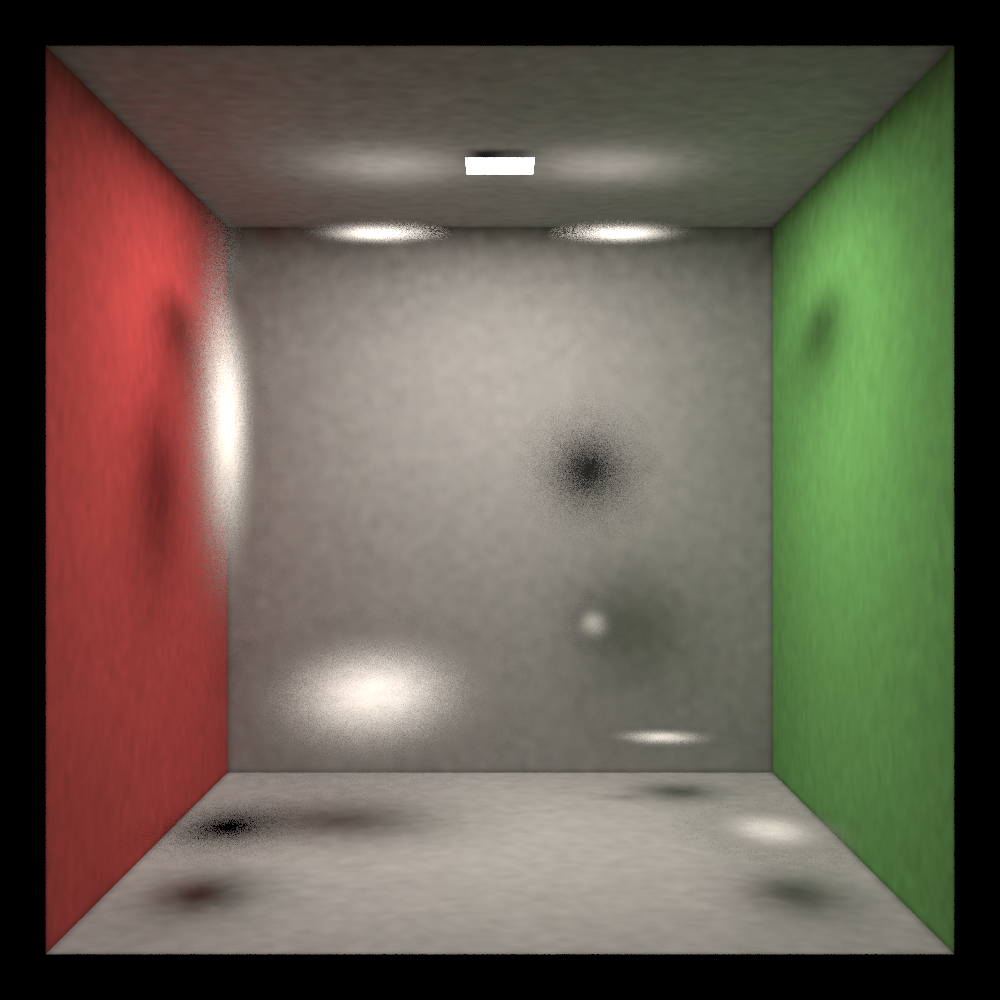
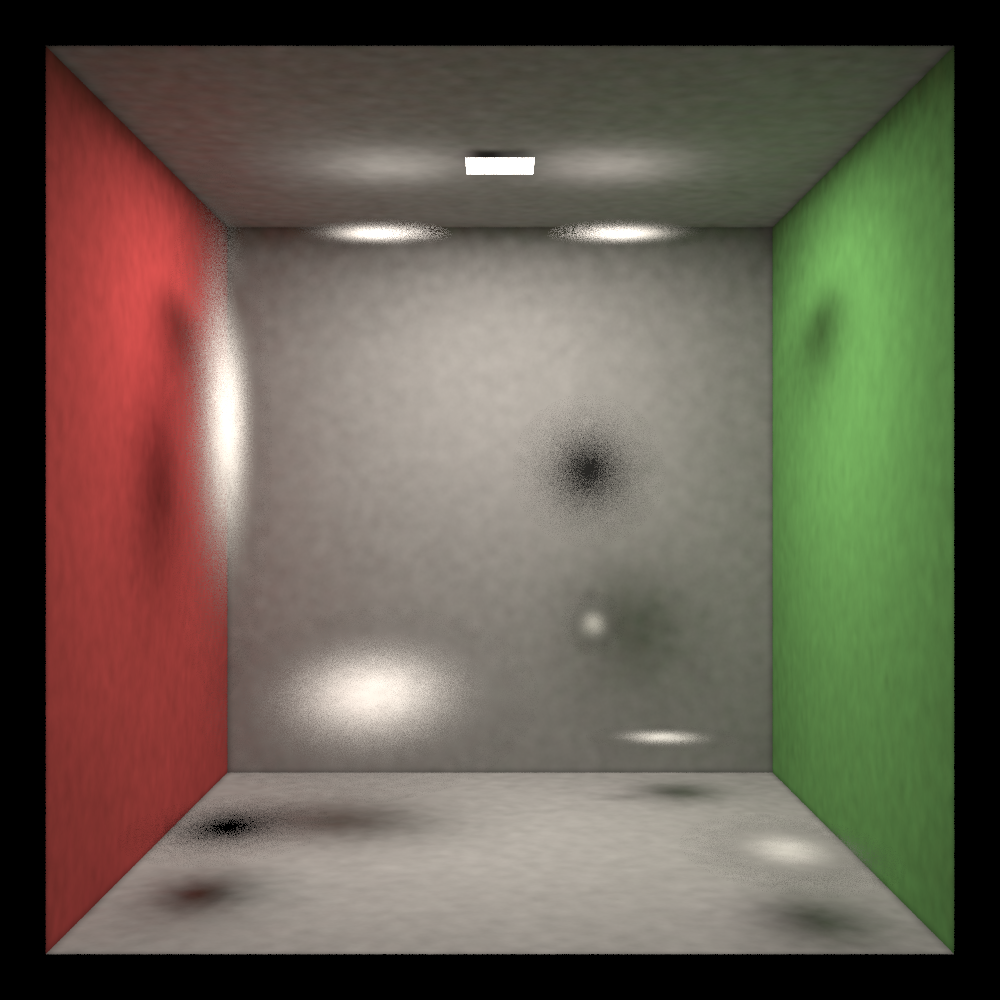
Think I got the first leg working must verify more

Changed region(s): [[0.744, 0.806, 0.868, 0.961]]

diff --git a/Pale/Renderer/Kernels/AdjointKernels.cpp b/Pale/Renderer/Kernels/AdjointKernels.cpp
@@ -310,7 +310,7 @@ namespace Pale {
 
                                     const float3 surfelRadianceRGB = estimateSurfelRadianceFromPhotonMap(
                                         terminal, ray.direction, scene, photonMap,
-                                        true, true, true);
+                                        false, true, true);
 
                                     const float3 surfelRadianceRGB_B = estimateSurfelRadianceFromPhotonMap(
                                         terminal, -ray.direction, scene, photonMap,
